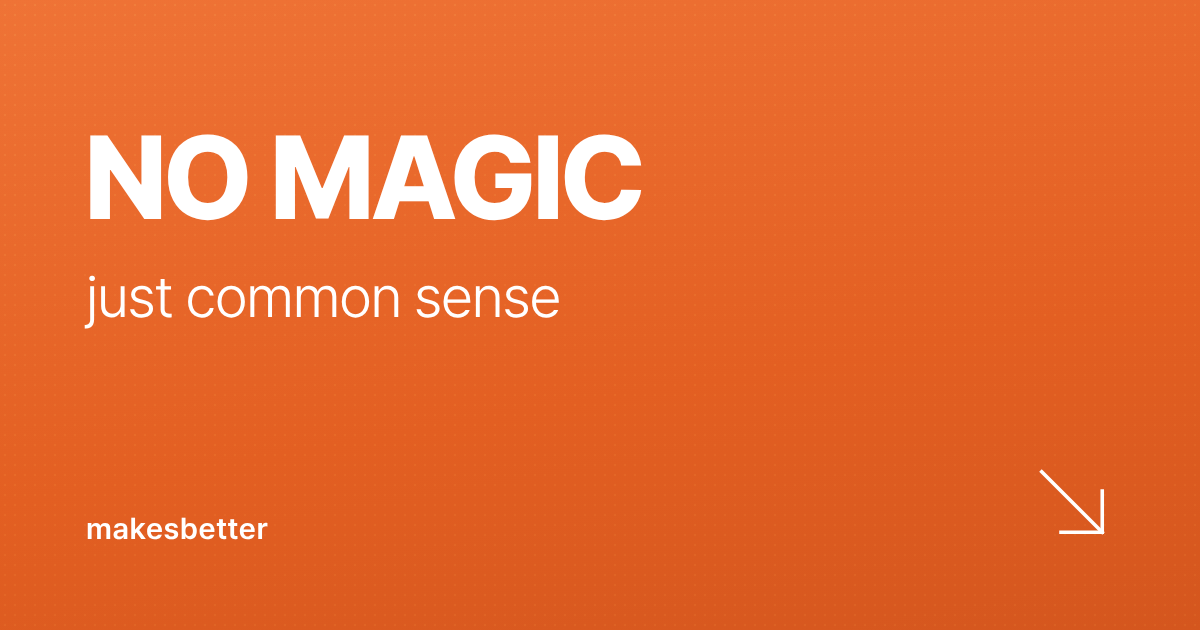
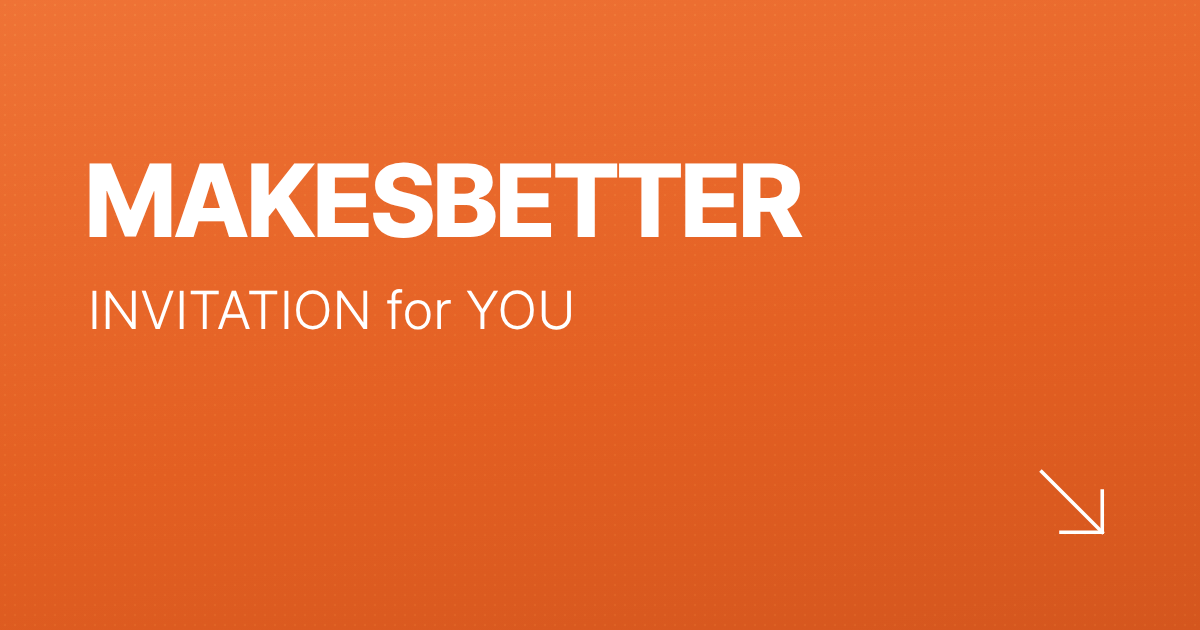
오프닝 커버·썸네일: MAKESBETTER / INVITATION for YOU 두 줄만
Claude-Session: https://claude.ai/code/session_01AK1nvLUVWxd12Ns9kLYVVR

Changed region(s): [[0.0617, 0.2111, 0.6783, 0.3921], [0.0617, 0.4524, 0.4933, 0.5429], [0.0617, 0.8143, 0.2158, 0.8746]]

diff --git a/join/index.html b/join/index.html
@@ -259,10 +259,10 @@ h2{font-size:26px;line-height:1.38;font-weight:700;letter-spacing:-.035em}
 .cover{position:fixed;inset:0;z-index:60;background:#E8692E;background:linear-gradient(170deg,#EF7336 0%,#E35F22 60%,#D4561E 100%);color:#fff;padding:0 var(--g);transition:transform .95s cubic-bezier(.76,0,.24,1);will-change:transform;box-shadow:0 30px 60px rgba(0,0,0,.25)}
 .cover::before{content:"";position:absolute;inset:0;opacity:.12;background-image:radial-gradient(rgba(255,255,255,.9) .7px,transparent .8px);background-size:7px 7px;pointer-events:none;mix-blend-mode:overlay}
 .cover.off{transform:translateY(-102%);pointer-events:none}
-.cv-mid{position:absolute;left:var(--g);right:var(--g);top:50%;transform:translateY(-60%)}
+.cv-mid{position:absolute;left:var(--g);right:var(--g);top:50%;transform:translateY(-50%)}
 .cv-wrap{display:block;overflow:hidden;padding-bottom:.08em}
-.cv-line{display:block;font-size:clamp(38px,11.5vw,64px);line-height:1.02;font-weight:800;letter-spacing:-.04em;transform:translateY(110%);transition:transform .95s cubic-bezier(.2,.8,.2,1)}
-.cv-line.cv-low{font-size:clamp(19px,5.75vw,32px);line-height:1.2;margin-top:10px;font-weight:300;letter-spacing:-.02em;transition-delay:.14s}
+.cv-line{display:block;font-size:clamp(34px,10.2vw,58px);line-height:1.02;font-weight:800;letter-spacing:-.04em;transform:translateY(110%);transition:transform .95s cubic-bezier(.2,.8,.2,1)}
+.cv-line.cv-low{font-size:clamp(19px,5.75vw,32px);line-height:1.2;margin-top:10px;font-weight:300;letter-spacing:.01em;transition-delay:.14s}
 .cv-brand{display:block;margin-top:clamp(72px,18vh,140px);font-size:15px;font-weight:600;letter-spacing:.02em;transform:translateY(120%);transition:transform .9s cubic-bezier(.2,.8,.2,1) .55s}
 .cv-arrow{position:absolute;right:var(--g);bottom:calc(40px + env(safe-area-inset-bottom,0px));width:64px;height:64px;border:0;background:none;padding:0;cursor:pointer;color:#fff;opacity:0;transition:opacity .6s ease 1.6s;-webkit-tap-highlight-color:transparent}
 .cv-arrow svg{width:100%;height:100%;display:block;stroke:currentColor;stroke-width:2;stroke-linecap:square;fill:none}
@@ -306,9 +306,8 @@ body.send .share{display:block;min-height:calc(100vh - 56px);min-height:calc(100
 
 <div class="cover" id="cover" role="dialog" aria-label="시작 화면">
   <div class="cv-mid">
-    <span class="cv-wrap"><b class="cv-line">NO MAGIC</b></span>
-    <span class="cv-wrap"><b class="cv-line cv-low">just common sense</b></span>
-    <span class="cv-wrap"><b class="cv-brand">makesbetter</b></span>
+    <span class="cv-wrap"><b class="cv-line">MAKESBETTER</b></span>
+    <span class="cv-wrap"><b class="cv-line cv-low">INVITATION for YOU</b></span>
   </div>
   <button class="cv-arrow" id="cvArrow" type="button" aria-label="초대장 열기"><svg viewBox="0 0 64 64" aria-hidden="true"><path class="ln" d="M10 10 L54 54"/><path class="hd" d="M54 24 V54 H24"/></svg></button>
 </div>
